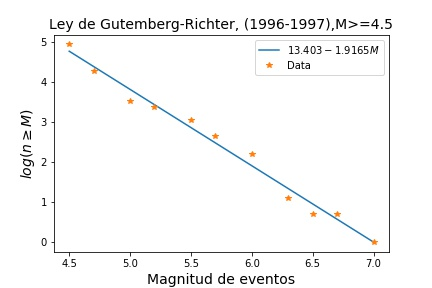
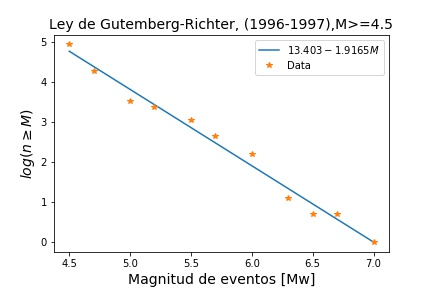
Creacion
Se crea el archivo de la tarea 2 que trata sobre rayos sismicos en diferentes modelos de velocidades

Changed region(s): [[0.3009, 0.9375, 0.7523, 1.0]]

diff --git a/Tarea_1_sismo/Tarea_1.py b/Tarea_1_sismo/Tarea_1.py
@@ -1,10 +1,260 @@
-#!/usr/bin/env python3
-# -*- coding: utf-8 -*-
-"""
-Created on Wed Sep 11 00:37:22 2019
 
-@author: Lucas
-"""
+# coding: utf-8
+
+# In[97]:
+
+
 #Tarea 1 sismología
 import matplotlib.pyplot as plt #modulo para graficar
-import numpy as np #este modulo es para trabajar con matrices como en matlab
+import numpy as np              #este modulo es para trabajar con matrices como en matlab
+import pandas as pd             #modulo para leer archivos
+import csv
+import scipy.optimize as opt
+
+Chile = np.loadtxt('Chile.dat')   #tiene 2 columnas
+Fosa = np.loadtxt('fosa.dat')     #tiene 2 columnas
+Punitaqui = pd.read_csv('Punitaqui.csv', sep=',', skiprows = 0)
+PunitaquiEX = pd.read_csv('Punitaque_extendo.csv', sep = ',', skiprows = 0)
+Chili = pd.read_csv('Chilean_sismi.csv', sep = ',', skiprows = 0)
+ 
+
+# cosas que usare
+
+latFosa = Fosa[:,0]
+longFosa = Fosa[:,1]
+
+latCosta = Chile[:,1]
+longCosta = Chile[:,0]
+
+
+# datos de punitaqui
+timeP = Punitaqui['time']
+latP = Punitaqui['latitude']
+lonP = Punitaqui['longitude']
+dephtP = Punitaqui['depth']
+magP = Punitaqui['mag']
+
+# datos de punitaqui extendidos
+timePE = PunitaquiEX['time']
+latPE = PunitaquiEX['latitude']
+lonPE = PunitaquiEX['longitude']
+dephtPE = PunitaquiEX['depth']
+magPE = PunitaquiEX['mag']
+
+# datos para la p2
+timeC = Chili['time']
+latC = Chili['latitude']
+lonC = Chili['longitude']
+dephtC = Chili['depth']
+magC = Chili['mag']
+
+
+# In[96]:
+
+
+# Los archivos que nos dieron tienen a TODO chile y a TODA la fosa asi que los filtro en el rango pedido
+def nuevaCostaFosa(longFosa, latFosa, minlat, maxlat):
+    nuevalongFosa = []
+    nuevalatFosa = []
+    for i in range(len(longFosa)):
+        if latFosa[i] <= maxlat :
+            if latFosa[i] >= minlat:
+                nuevalongFosa.append(longFosa[i])
+                nuevalatFosa.append(latFosa[i])
+    nuevo = [nuevalongFosa, nuevalatFosa]
+    return nuevo
+
+nuevaFosa = nuevaCostaFosa(longFosa, latFosa, -33, -28)
+nuevalongFosa = nuevaFosa[0]
+nuevalatFosa = nuevaFosa[1]
+plt.plot(nuevalongFosa, nuevalatFosa, 'm.', label = 'Fosa')
+
+nuevaCosta = nuevaCostaFosa(longCosta, latCosta, -33, -28)
+nuevalongCosta = nuevaCosta[0]
+nuevalatCosta = nuevaCosta[1]
+plt.plot(nuevalongCosta,nuevalatCosta, 'r*', label = 'Continente')
+
+plt.plot(lonP, latP, 'b+', label = 'Sismos')
+
+plt.title('Gráfico de planta, (1996-1997),M>=4.5', fontsize = 14) #titulo 
+plt.ylabel('Latitud [o]', fontsize = 14) #rotulos de los ejes
+plt.xlabel('Longitud [o]', fontsize = 14)
+plt.legend(loc = 'upper left')
+plt.savefig('P1_1.jpg')
+plt.show()
+
+
+# In[95]:
+
+
+
+def rango(latDat, longDat, dephtDat, minlat, maxlat):
+    nuevaLong = []
+    nuevaProf = []
+    for i in range(len(longDat)):
+        if latDat[i]<=maxlat: 
+            if latDat[i] > minlat:
+                nuevaLong.append(longDat[i])
+                nuevaProf.append(-dephtDat[i]) 
+    nuevo = [nuevaLong, nuevaProf]
+    return nuevo
+
+aux = rango(latP,lonP,dephtP,-33,-28)
+filteredLong = aux[0]
+newDepht = aux[1]
+
+adjustedLong = []
+for i in range(len(filteredLong)):
+    adjustedLong.append(111.18*np.cos(31)*(filteredLong[i] - max(filteredLong)))
+    i += 1
+
+plt.plot(adjustedLong,newDepht,'b+',label='Eventos')
+plt.plot(111.18*np.cos(31)*(-71.64557 - max(filteredLong)),0,'ro',label = 'Costa') #linea costa
+plt.plot(111.18*np.cos(31)*(-72.809998 - max(filteredLong)) - min(filteredLong),0,'mo',label = 'Fosa') #linea fosa
+plt.xlabel('Longitud desde el evento mas al Oeste [km]',fontsize = 14) #se rotulan ejes y título
+plt.ylabel('Profundidad [km]',fontsize = 14)
+plt.title('Perfil de zona, latitud entre 28o y 33o sur',fontsize = 14)
+plt.legend()
+plt.savefig('P1_2.jpg')
+plt.show() #Con este grafico, estimando con 2 puntos en la recta podemos decir que el angulo de subduccion 
+           #desde la superficie es aprox 31º
+
+
+# In[98]:
+
+
+n = []
+M = [4.5, 4.7, 5, 5.2, 5.5, 5.7, 6, 6.3, 6.5, 6.7, 7]
+for i in range(len(M)):
+    n.append(0)
+    for j in range(len(magPE)):
+        if magPE[j] >= M[i]:
+            n[i] += 1
+            j += 1
+        else:
+            j += 1
+    i += 1
+    
+def model(x):
+    return 13.403 - 1.9165 * x 
+x = np.linspace(4.5 , 7 , 100)
+
+plt.plot(x,model(x),label='$13.403 - 1.9165M$')    
+plt.plot(M,np.log(n),'*', label='Data')
+plt.title('Ley de Gutemberg-Richter, (1996-1997),M>=4.5', fontsize = 14) #titulo 
+plt.ylabel('$log(n\geq M)$', fontsize = 14) #rotulos de los ejes
+plt.xlabel('Magnitud de eventos [Mw]', fontsize = 14)
+plt.legend(loc = 'upper right')
+plt.savefig('P1_3.jpg')
+plt.show
+
+
+# In[93]:
+
+
+anoP = []
+mesP = []
+diaP = []
+for i in range(len(timeP)):
+    anoP.append(int(timeP[i][:4]))
+    mesP.append(int(timeP[i][5:7]))
+    diaP.append(int(timeP[i][8:10]))
+    i +=1
+
+NanoP = anoP[0:42]
+NmesP = mesP[0:42]
+NdiaP = diaP[0:42]
+NmagP = magP[0:42]
+
+diaBath = []
+for i in range(len(NanoP)):
+    diaBath.append(NmesP[i] + NdiaP[i]/30)
+
+def omori(diaBath,magOmori):
+    numero = []
+    diaSinRep = []
+    n = 1
+    for i in range(len(diaBath) - 1):
+        if diaBath[i] == diaBath[i + 1]:
+            n += 1
+        else:
+            numero.append(n)
+            diaSinRep.append(diaBath[i]) 
+    return [numero,diaSinRep]
+OmoriFinal = omori(diaBath,NmagP)
+numeroOmoriFinal = OmoriFinal[0]
+diaOmoriFinal = OmoriFinal[1]
+
+def fitting(t,K,c):
+    b=K/(t+c)
+    return b
+
+optimizedParameters, pcov = opt.curve_fit(fitting, diaOmoriFinal, numeroOmoriFinal);
+
+print(optimizedParameters)
+
+plt.plot(diaOmoriFinal, fitting(diaOmoriFinal, *optimizedParameters),'r',label='Ajuste de la curva, K=1.88, c=-10.33');
+plt.plot(diaOmoriFinal,numeroOmoriFinal,'b+',label='Cantidad por dia')
+plt.xlabel('Tiempo [Mes del año]',fontsize=14) #se rotulan ejes ytítulo
+plt.ylabel('Numero de repeticiones',fontsize=14)
+plt.title('Ley de Omori',fontsize=14)
+plt.legend()
+plt.savefig('P1_4.jpg')
+plt.show()
+
+
+# In[91]:
+
+
+maximo=max(magP)-1.
+magOmori2=[]
+for i in range(len(magP)):
+    if magP[i]!=8.8:
+        magOmori2.append(magP[i])
+maximaReplica=max(magOmori2)
+
+plt.plot(diaBath,NmagP,'b+',label='Eventos')
+plt.axhline(maximo,color='red',label='Replica Maxima')
+plt.xlabel('Tiempo [Meses del año]',fontsize=14) #se rotulan ejes ytítulo
+plt.ylabel('Magnitud [Mw]',fontsize=14)
+plt.yticks(np.arange(3.5, 7.5, 1.0)) 
+plt.title('Ley de Bath',fontsize=14)
+plt.legend()
+plt.savefig('P1_5.jpg')
+plt.show()
+
+
+# In[92]:
+
+
+# Los archivos que nos dieron tienen a TODO chile y a TODA la fosa asi que los filtro en el rango pedido
+def nuevaCostaFosa(longFosa, latFosa, minlat, maxlat):
+    nuevalongFosa = []
+    nuevalatFosa = []
+    for i in range(len(longFosa)):
+        if latFosa[i] <= maxlat :
+            if latFosa[i] >= minlat:
+                nuevalongFosa.append(longFosa[i])
+                nuevalatFosa.append(latFosa[i])
+    nuevo = [nuevalongFosa, nuevalatFosa]
+    return nuevo
+
+nuevaFosa = nuevaCostaFosa(longFosa, latFosa, -55, -18)
+nuevalongFosa = nuevaFosa[0]
+nuevalatFosa = nuevaFosa[1]
+plt.plot(nuevalongFosa, nuevalatFosa, 'm.', label = 'Fosa')
+
+nuevaCosta = nuevaCostaFosa(longCosta, latCosta, -55, -18)
+nuevalongCosta = nuevaCosta[0]
+nuevalatCosta = nuevaCosta[1]
+plt.plot(nuevalongCosta,nuevalatCosta, 'r', label = 'Continente')
+
+plt.plot(lonC, latC, 'b+', label = 'Sismos')
+
+plt.title('Gráfico de planta, (1996-1997),M>=4.5', fontsize = 14) #titulo 
+plt.ylabel('Latitud [o]', fontsize = 14) #rotulos de los ejes
+plt.xlabel('Longitud [o]', fontsize = 14)
+plt.legend(loc = 'upper left')
+plt.savefig('P2_1.jpg')
+plt.show()
+
